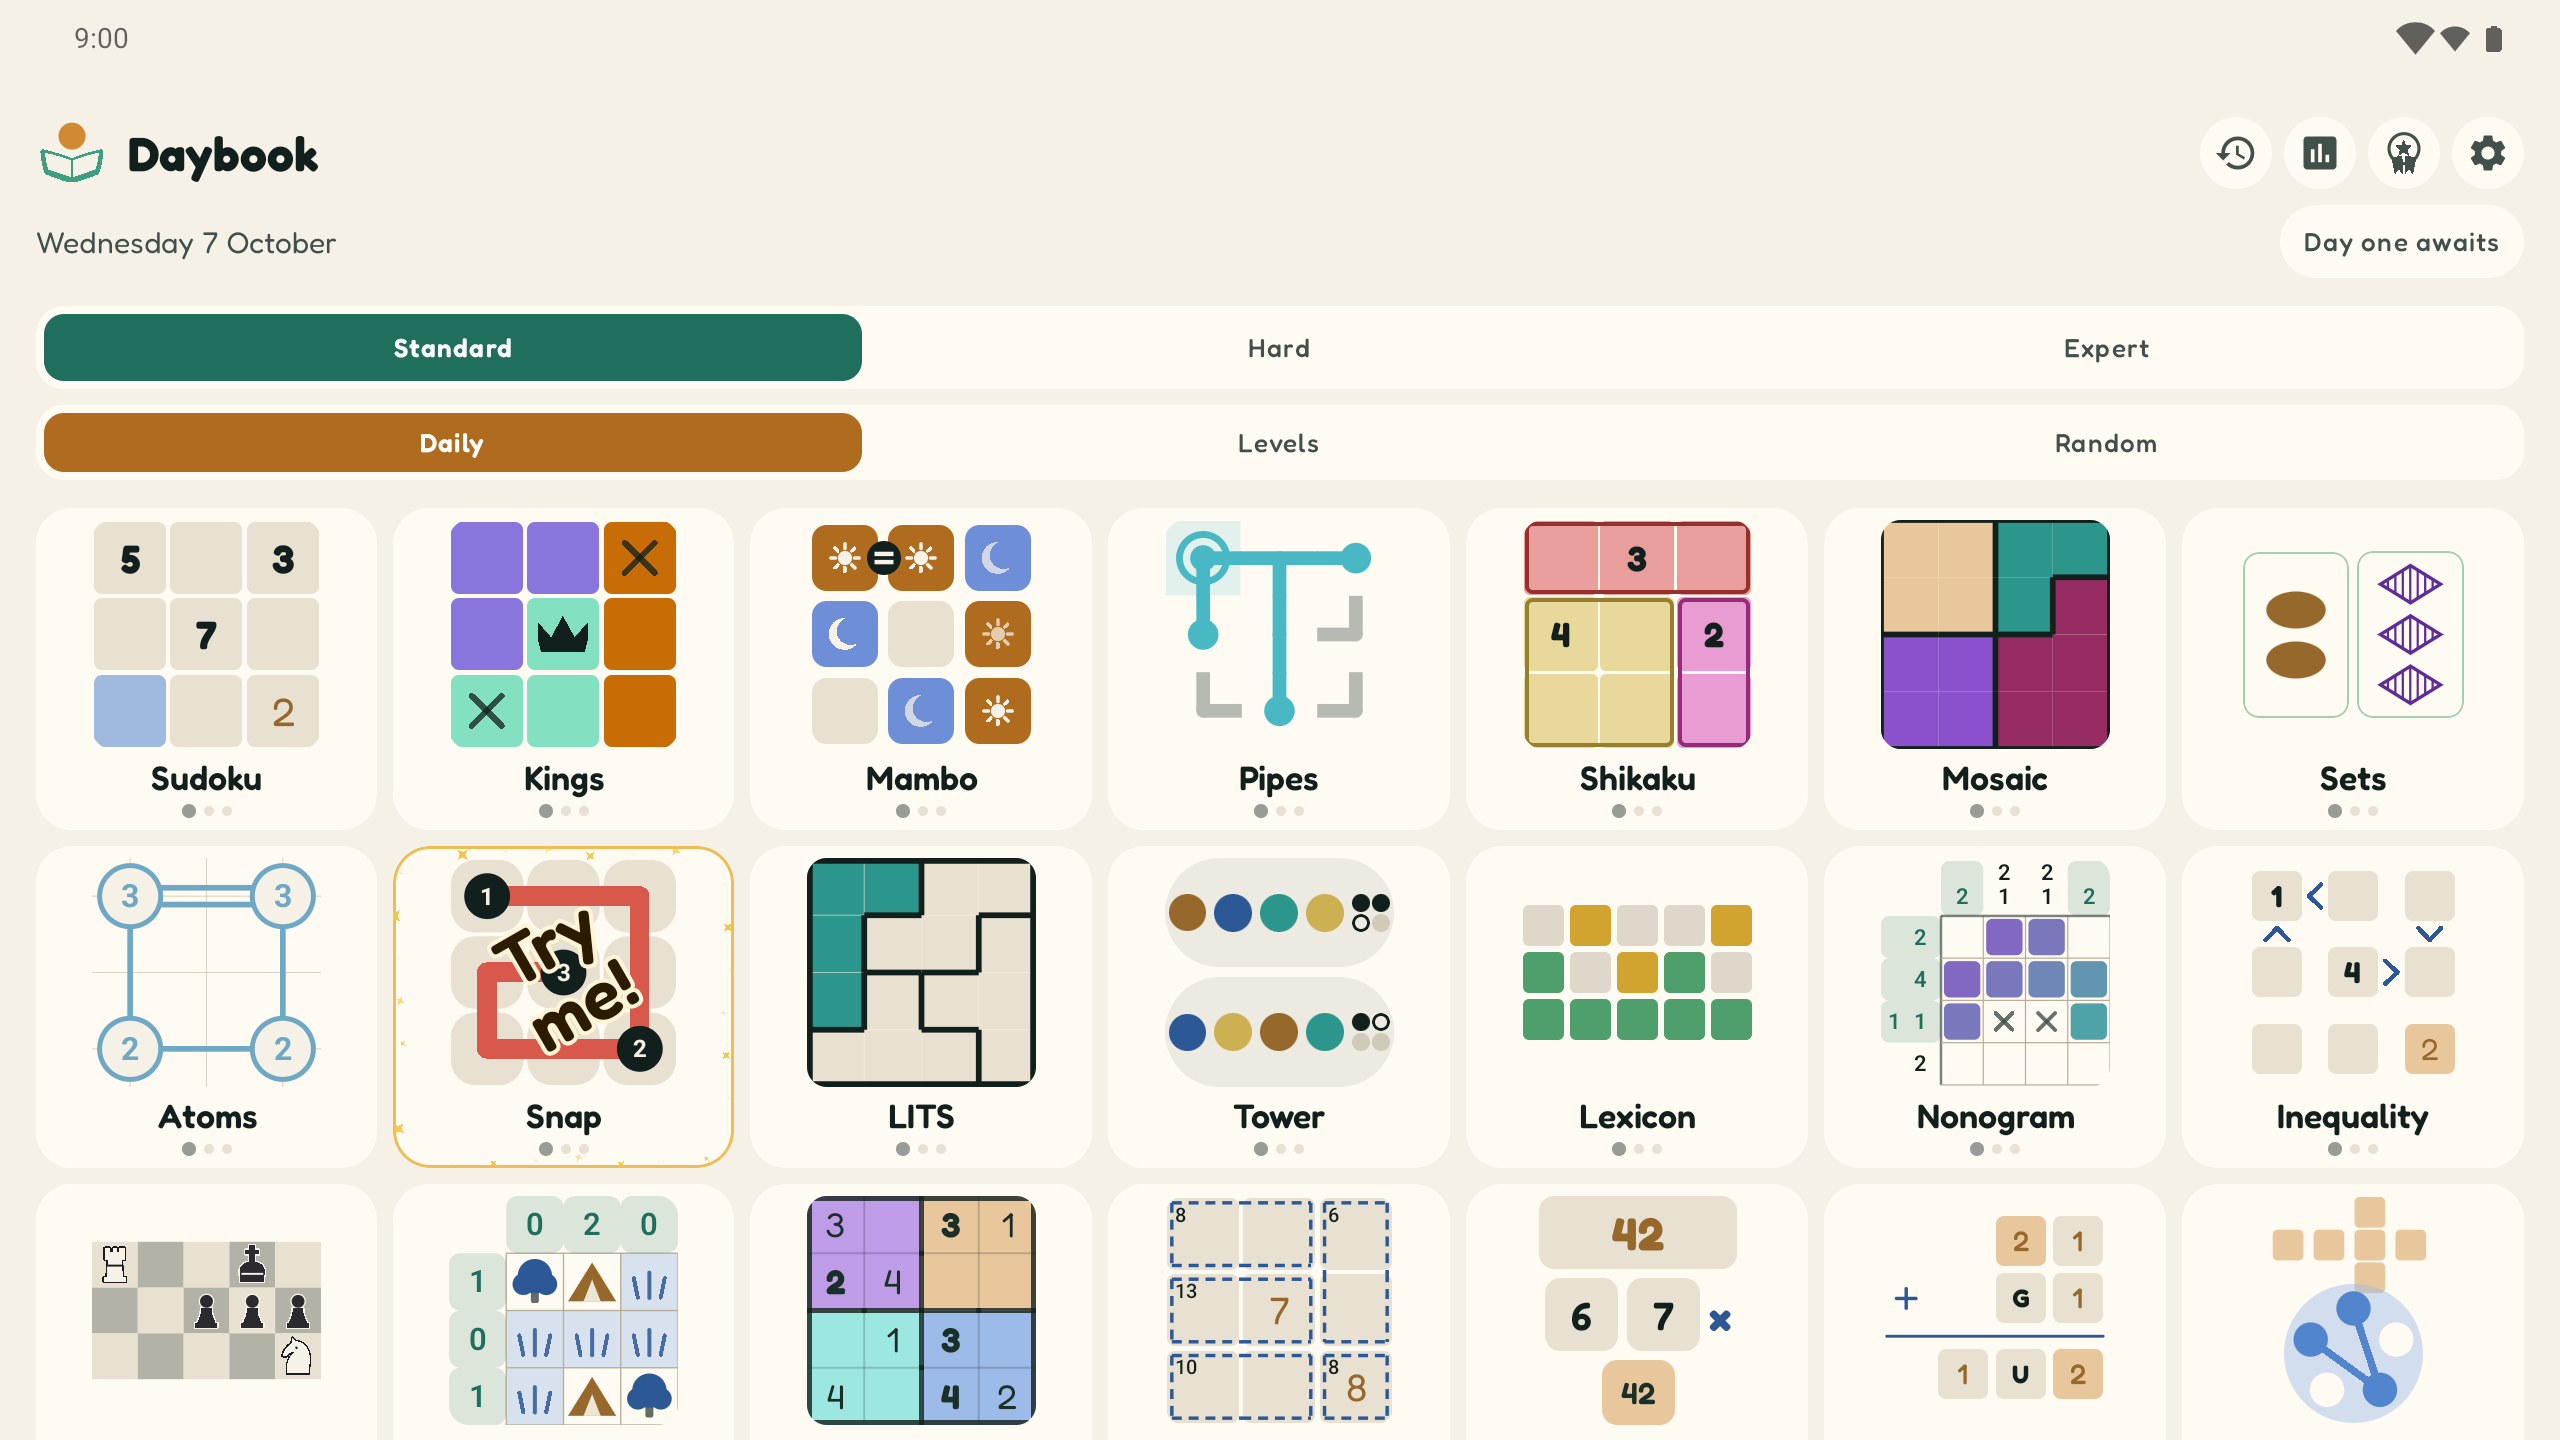
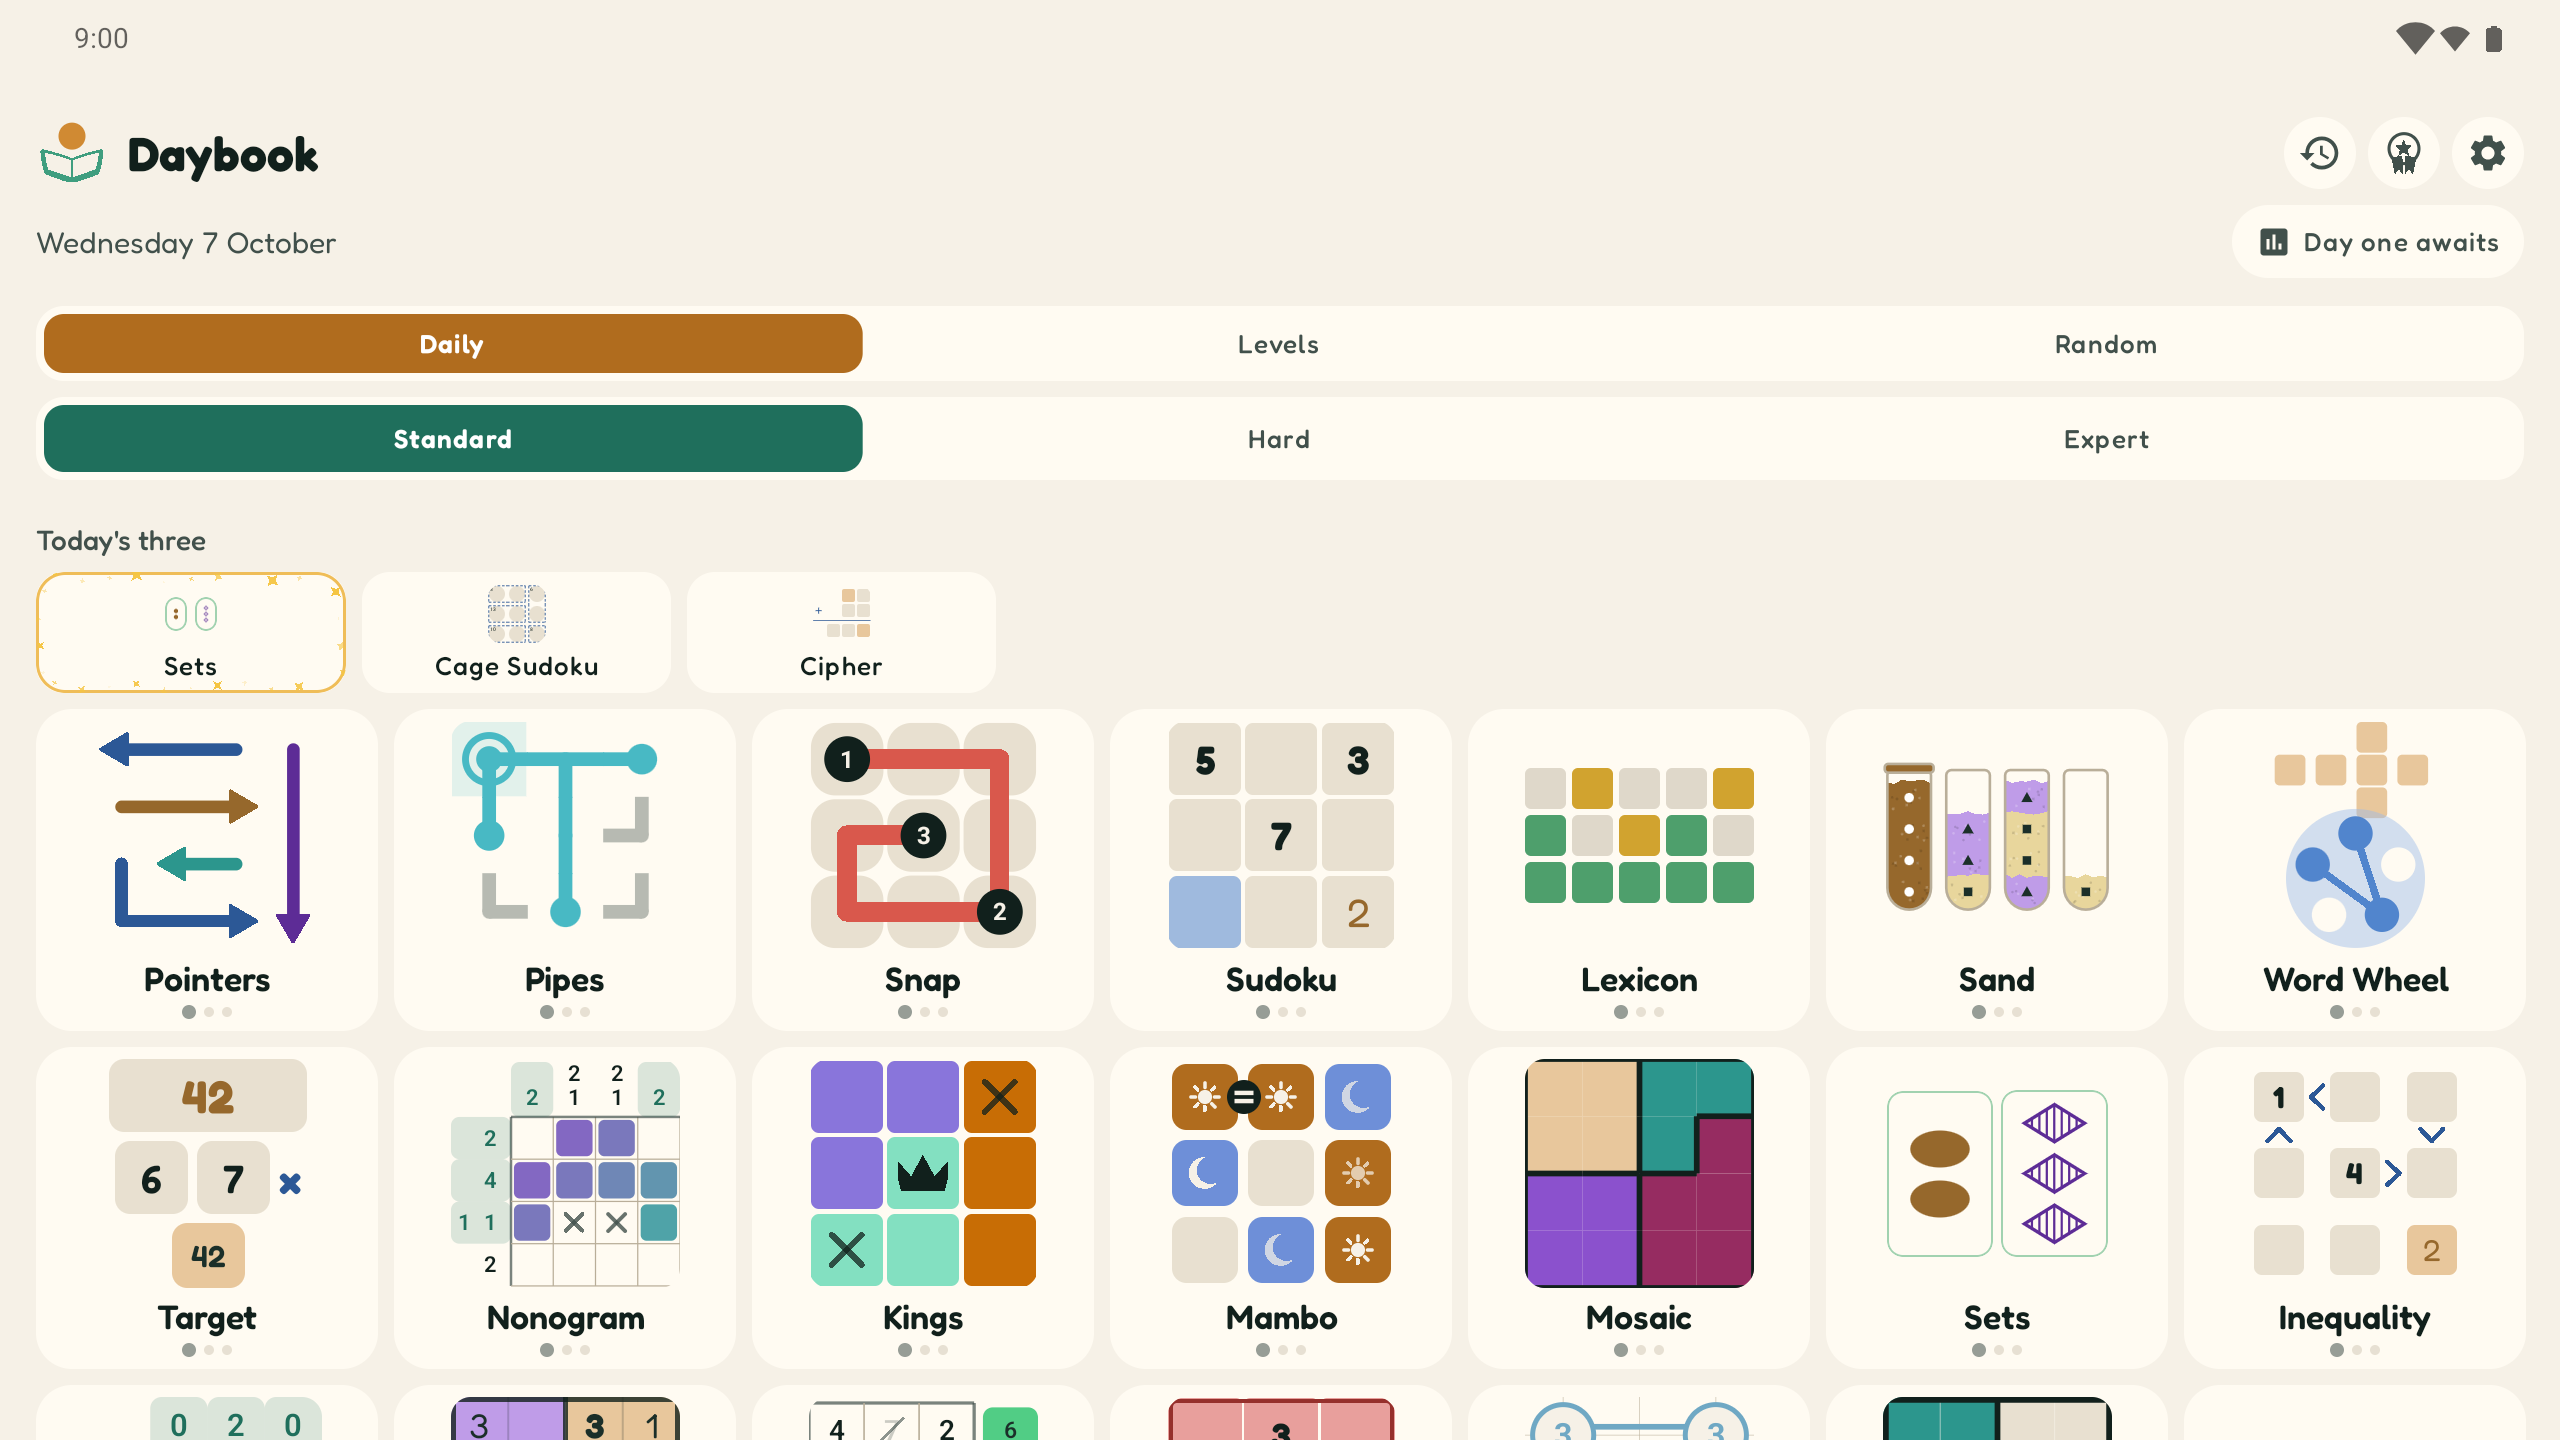
Recapture the home screenshots with Today's three

diff --git a/README.md b/README.md
@@ -13,7 +13,7 @@ No ads. No subscription. No accounts. No network permission in the manifest at a
 
 | Every puzzle, every day | Sudoku | Cage Sudoku | Word Wheel |
 |---|---|---|---|
-| ![The home screen on day one: today's puzzles, the first nine in view, Snap marked as today's pick](docs/screenshots/home.png) | ![A Sudoku board with a hint open](docs/screenshots/sudoku.png) | ![A Hard Cage Sudoku board with a hint open](docs/screenshots/cage-sudoku.png) | ![A Word Wheel board](docs/screenshots/word-wheel.png) |
+| ![The home screen on day one: today's three over the grid of puzzles, the first nine in view](docs/screenshots/home.png) | ![A Sudoku board with a hint open](docs/screenshots/sudoku.png) | ![A Hard Cage Sudoku board with a hint open](docs/screenshots/cage-sudoku.png) | ![A Word Wheel board](docs/screenshots/word-wheel.png) |
 
 ![On a tablet the board sits beside the title, hints and tools: a Cage Sudoku with a hint open](docs/screenshots/tablet-cage-sudoku.png)
 
